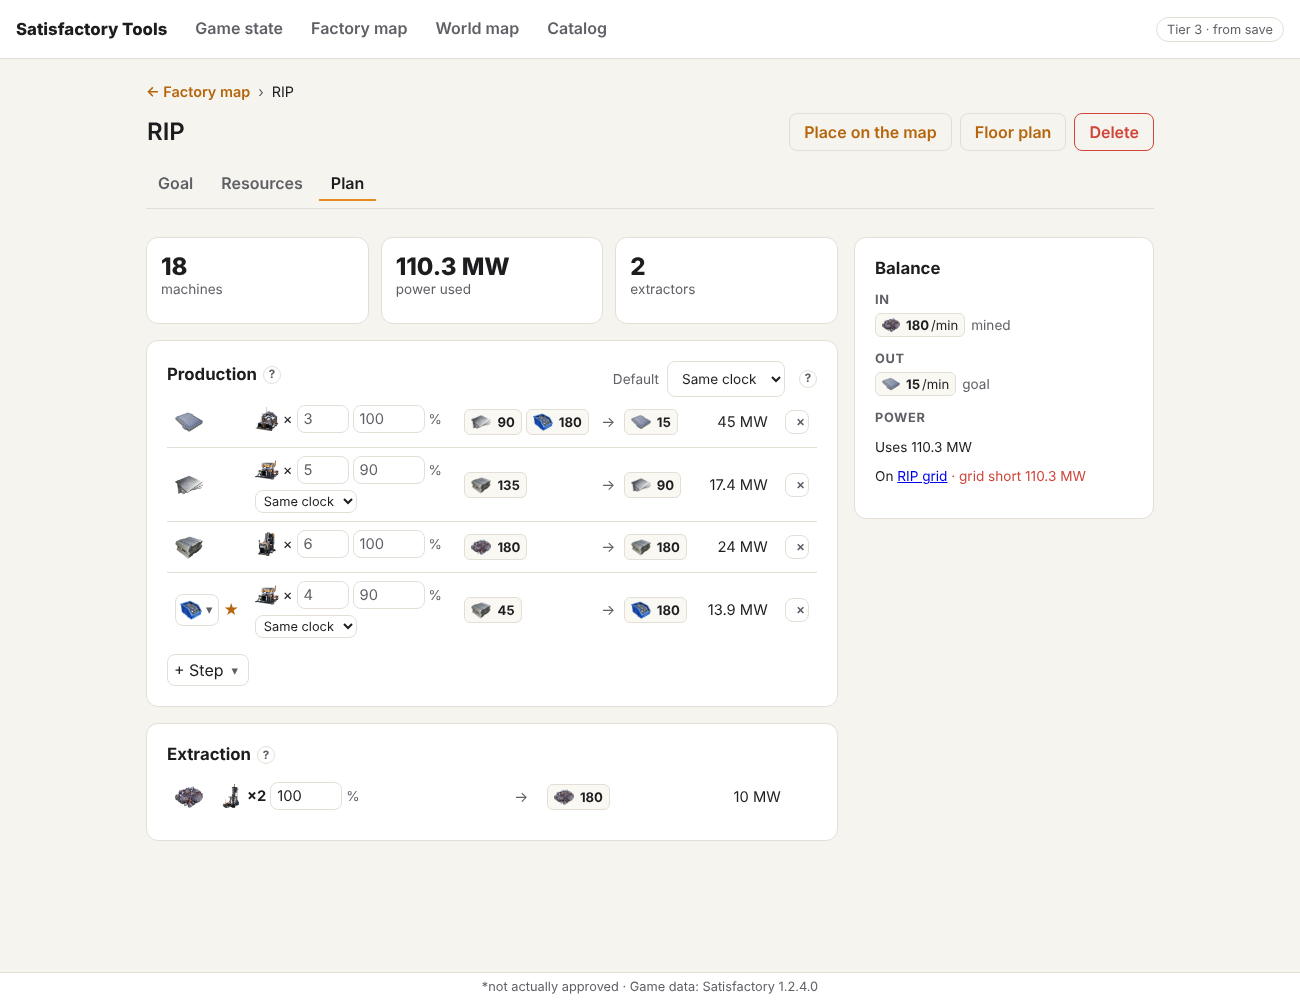
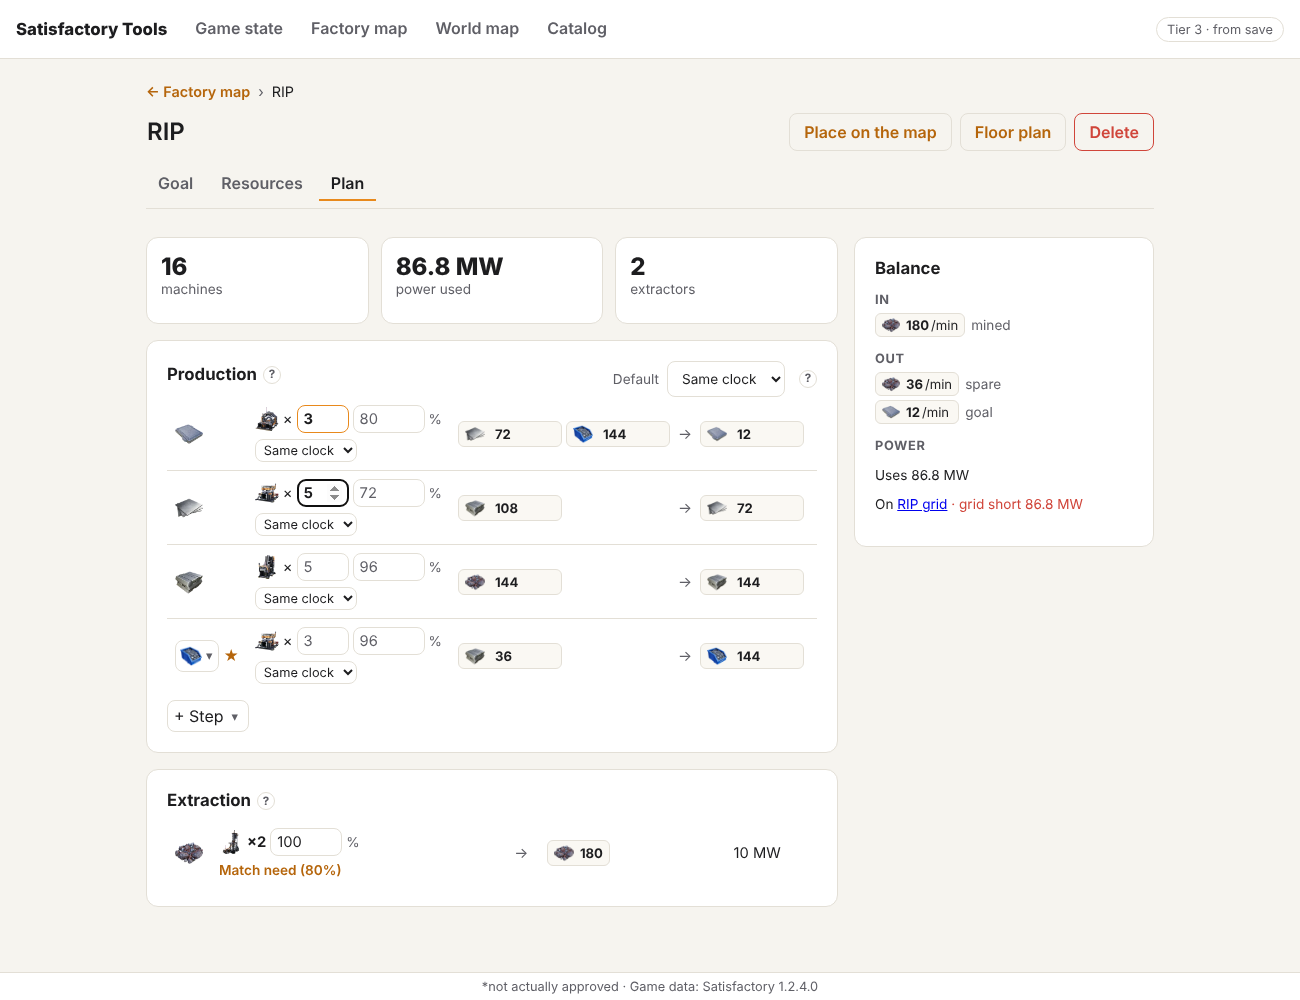
Edit a step's inputs and outputs; a machine count keeps the rate
Each production step's input and output rates are editable: the step keeps
its machines, their clock follows, and the goals it serves scale to match.
Changing the machine count keeps the rate and recomputes the clock, adding
machines only when the clock would pass the plan's highest clock.

Claude-Session: https://claude.ai/code/session_01597yZm3yK1fH7oyjqfmAXD

diff --git a/src/screens/Outposts.tsx b/src/screens/Outposts.tsx
@@ -3,12 +3,12 @@ import { buildingsById, itemName, recipes, recipesById, resourcesById } from '..
 import { fmt } from '../format'
 import { gridOf, type PowerGrid } from '../plan/grids'
 import { exportsOf, offers, type Solved } from '../plan/network'
-import { addStep, editStep, removeStep } from '../plan/edit'
+import { addStep, editStep, editStepRate, removeStep } from '../plan/edit'
 import { buildingFor, extractorPerMin, extractorsFor, generatorsFor, MAX_CLOCK, perMin, recipesFor, somersloopBoost, unlockedFeatures, unusedImports } from '../plan/solve'
 import type { PlannerSettings } from '../plan/settings'
 import { newId, type PlanPatch } from '../plan/store'
 import { suggestGoalItem, suggestGoalRate } from '../plan/suggest'
-import type { ClockMode, ExtractionStep, Goal, ItemGoal, OutpostPlan, Purity, StepSetting, Transport } from '../plan/types'
+import type { ClockMode, ExtractionStep, Goal, ItemGoal, OutpostPlan, ProductionStep, Purity, StepSetting, Transport } from '../plan/types'
 import { fitTransport, transportsFor, transportUnlocked } from '../plan/unlocked'
 import { useNetwork } from '../plan/useNetwork'
 import { editorPath } from '../editor/route'
@@ -18,7 +18,6 @@ import { Amount, GameIcon, PowerIcon } from '../ui/GameIcon'
 import { Help, WithTip } from '../ui/Help'
 import { IconSelect } from '../ui/IconSelect'
 import { NumberInput } from '../ui/NumberInput'
-import { Rates } from './Rates'
 
 const pct = (clock: number) => `${Math.round(clock * 1000) / 10}%`
 const CLOCKS = [1, 1.5, 2, 2.5]
@@ -605,9 +604,9 @@ function PlanStep({ solved, update, available, settings, setSettings }: StepProp
                           min={1}
                           step={1}
                           value={s.count}
-                          onChange={(n) => setStep(s.recipe, { ...set, count: Math.max(1, Math.round(n)) })}
+                          onChange={(n) => setStep(s.recipe, { mode: set?.mode, count: Math.max(1, Math.round(n)) })}
                           aria-label={`Machines for ${itemName(s.item)}`}
-                          title={set?.count ? 'Set by you' : 'Suggested: type a number to set it'}
+                          title={set?.count ? 'Set by you: the clock follows the rate' : 'Suggested: type a number to set it; the rate stays and the clock follows'}
                         />
                         <NumberInput
                           lazy
@@ -671,11 +670,11 @@ function PlanStep({ solved, update, available, settings, setSettings }: StepProp
                       )}
                     </td>
                     <td>
-                      <Rates list={recipe.ingredients} recipe={recipe} scale={s.machines} />
+                      <StepRates step={s} side="in" onRate={(item, rate) => update(editStepRate(solved, ctx, s, 'in', item, rate))} />
                     </td>
                     <td className="arrow">→</td>
                     <td>
-                      <Rates list={recipe.products} recipe={recipe} scale={s.machines * s.boost} />
+                      <StepRates step={s} side="out" onRate={(item, rate) => update(editStepRate(solved, ctx, s, 'out', item, rate))} />
                     </td>
                     <td className="num">{fmt(s.powerMW, 1)} MW</td>
                     <td className="num actions">
@@ -742,6 +741,32 @@ function PlanStep({ solved, update, available, settings, setSettings }: StepProp
 
       {solution.extraction.length > 0 && <Extraction solved={solved} update={update} available={available} />}
     </>
+  )
+}
+
+/** A step's inputs or outputs per minute, each editable: the machines stay and their clock follows. */
+function StepRates({ step, side, onRate }: { step: ProductionStep; side: 'in' | 'out'; onRate: (item: string, perMin: number) => void }) {
+  const recipe = recipesById.get(step.recipe)!
+  const list = side === 'in' ? recipe.ingredients : recipe.products
+  const scale = side === 'in' ? step.machines : step.machines * step.boost
+  return (
+    <span className="rates">
+      {list.map((x) => (
+        <span key={x.item} className="rate step-rate">
+          <GameIcon id={x.item} size={20} />
+          <NumberInput
+            lazy
+            min={0}
+            step="any"
+            value={perMin(x.amount, recipe) * scale}
+            format={(n) => fmt(n)}
+            onChange={(n) => onRate(x.item, n)}
+            aria-label={`${itemName(x.item)} per minute ${side === 'in' ? 'into' : 'out of'} the ${itemName(step.item)} step`}
+            title="Per minute. Change it and the machines stay, their clock follows, and the goals scale to match."
+          />
+        </span>
+      ))}
+    </span>
   )
 }
 

diff --git a/src/plan/solve.ts b/src/plan/solve.ts
@@ -112,8 +112,9 @@ export const buildingFor = (r: Recipe, available: Availability) => r.producedIn.
  * nodes. Anything left over (byproducts, unused node output) is exported.
  * Machines are sized to the plan's highest clock speed, all at one clock that hits the
  * rate ('uniform') or at full clock with the last one idling ('full'), unless the user
- * set a step's count or clock: then that step makes no more than those machines can,
- * and the rest of the demand is short. Power follows the game's clock exponent and
+ * set a step's count (the clock follows the rate, and machines are only added past the
+ * highest clock) or its clock (the step makes no more than those machines can, and the
+ * rest of the demand is short). Power follows the game's clock exponent and
  * Somersloop boost.
  */
 export function solve(plan: OutpostPlan, available: Availability, suggested: Choice = {}, options: SolveOptions = {}): OutpostSolution {
@@ -135,12 +136,11 @@ export function solve(plan: OutpostPlan, available: Availability, suggested: Cho
   // Highest clock a user may set on a machine: 250% once overclocking is researched, if it overclocks at all.
   const clockCap = (b: Building | undefined) => (features.has('overclocking') && b?.overclock?.canOverclock !== false ? MAX_CLOCK : 1)
   const clampClock = (c: number, b: Building | undefined) => Math.min(clockCap(b), Math.max(0.01, c))
-  /** Most work, in machines at 100%, a step the user sized can do. */
+  /** Most work, in machines at 100%, a step with a clock the user set can do. */
   const capacity = (r: Recipe) => {
     const set = plan.steps?.[r.id]
-    if (!set?.count) return Infinity
-    const b = buildingsById.get(buildingFor(r, available))
-    return Math.max(1, Math.round(set.count)) * (set.clock ? clampClock(set.clock, b) : clockCap(b))
+    if (!set?.count || !set.clock) return Infinity
+    return Math.max(1, Math.round(set.count)) * clampClock(set.clock, buildingsById.get(buildingFor(r, available)))
   }
 
   const powerGoal = plan.goals.find((g) => g.kind === 'power')
@@ -259,11 +259,16 @@ export function solve(plan: OutpostPlan, available: Availability, suggested: Cho
       const b = buildingsById.get(building)
       const set = plan.steps?.[id]
       const mode = set?.mode ?? defaultMode
-      let { count, clock } = sizeMachines(run.machines, b?.overclock?.canOverclock === false ? 1 : maxClock, mode)
-      if (set?.count) {
-        // The user's count, at their clock or one derived from the rate.
+      const limit = Math.min(MAX_CLOCK, b?.overclock?.canOverclock === false ? 1 : maxClock)
+      let { count, clock } = sizeMachines(run.machines, limit, mode)
+      if (set?.count && set.clock) {
         count = Math.max(1, Math.round(set.count))
-        clock = clampClock(set.clock ?? (mode === 'full' ? Math.max(1, run.machines / count) : run.machines / count), b)
+        clock = clampClock(set.clock, b)
+      } else if (set?.count) {
+        // The user's machines, at the clock that makes the rate; more only when that clock
+        // would go past the plan's highest clock.
+        count = Math.max(1, Math.round(set.count), Math.ceil(run.machines / limit - 1e-9))
+        clock = mode === 'full' ? Math.max(Math.min(1, limit), run.machines / count) : run.machines / count
       }
       return {
         recipe: id,

diff --git a/src/plan/edit.test.ts b/src/plan/edit.test.ts
@@ -1,7 +1,7 @@
 import { describe, expect, it } from 'vitest'
 import { schematics } from '../data'
 import { availability } from '../data/game/availability'
-import { addStep, editStep, removeStep } from './edit'
+import { addStep, editStep, editStepRate, removeStep } from './edit'
 import { solvePlan } from './network'
 import type { OutpostPlan } from './types'
 
@@ -40,6 +40,27 @@ describe('editing the plan', () => {
     const after = solvePlan({ ...solved.plan, ...patch }, all).solution
     expect(after.steps.find((s) => s.recipe === 'Recipe_IronRod_C')).toMatchObject({ count: 2, clock: 1 })
     expect(after.flows.get('Desc_IronRod_C')!.shortfall).toBeCloseTo(0)
+  })
+
+  it('changes the rate of a step and keeps its machines, with the clock following', () => {
+    // 10 constructors making 100 screws/min; ask for 80 instead.
+    const solved = solvePlan(plan({ goals: [{ kind: 'item', item: 'Desc_IronScrew_C', perMin: 100 }], steps: { Recipe_Screw_C: { count: 10 } } }), all)
+    const screws = solved.solution.steps.find((s) => s.recipe === 'Recipe_Screw_C')!
+    const patch = editStepRate(solved, ctx, screws, 'out', 'Desc_IronScrew_C', 80)
+    expect(goalRate(patch, 'Desc_IronScrew_C')).toBeCloseTo(80)
+    const after = solvePlan({ ...solved.plan, ...patch }, all).solution.steps.find((s) => s.recipe === 'Recipe_Screw_C')!
+    expect(after).toMatchObject({ count: 10, clock: 0.2 })
+    // Setting the input works the same way: 30 rods/min in is 120 screws/min out.
+    const viaInput = editStepRate(solved, ctx, screws, 'in', 'Desc_IronRod_C', 30)
+    expect(goalRate(viaInput, 'Desc_IronScrew_C')).toBeCloseTo(120)
+  })
+
+  it('pins the current machine count when a suggested step gets a new rate, and drops a set clock', () => {
+    const solved = solvePlan(plan({ goals: [{ kind: 'item', item: 'Desc_IronPlate_C', perMin: 20 }], steps: { Recipe_IronPlate_C: { count: 2, clock: 0.5 } } }), all)
+    const plates = solved.solution.steps.find((s) => s.recipe === 'Recipe_IronPlate_C')!
+    const patch = editStepRate(solved, ctx, plates, 'out', 'Desc_IronPlate_C', 30)
+    expect(patch.steps).toEqual({ Recipe_IronPlate_C: { count: 2 } })
+    expect(goalRate(patch, 'Desc_IronPlate_C')).toBeCloseTo(30)
   })
 
   it("doesn't touch goals for a count alone, and resets to the suggestion", () => {

diff --git a/src/plan/edit.ts b/src/plan/edit.ts
@@ -6,7 +6,7 @@ import type { Availability } from '../data/game/availability'
 import type { Solved } from './network'
 import { perMin, solve, type SolveOptions } from './solve'
 import type { PlanPatch } from './store'
-import type { Goal, OutpostPlan, StepSetting } from './types'
+import type { Goal, OutpostPlan, ProductionStep, StepSetting } from './types'
 
 type Ctx = { available: Availability; options?: SolveOptions }
 
@@ -51,6 +51,20 @@ export function editStep(solved: Solved, ctx: Ctx, recipe: RecipeId, setting: St
   const step = solve(next, ctx.available, solved.suggested, ctx.options).steps.find((s) => s.recipe === recipe)
   if (!step) return { steps }
   return { steps, goals: fitGoals(next, solved, ctx, recipe, step.count * step.clock) }
+}
+
+/**
+ * Set how much of `item` a step makes (`side` 'out') or takes in ('in'), per minute. The
+ * step keeps its machines and their clock follows; the goals it serves scale to match.
+ */
+export function editStepRate(solved: Solved, ctx: Ctx, step: ProductionStep, side: 'in' | 'out', item: ItemId, rate: number): PlanPatch {
+  const r = recipesById.get(step.recipe)
+  const x = (side === 'out' ? r?.products : r?.ingredients)?.find((i) => i.item === item)
+  if (!r || !x) return {}
+  const target = Math.max(0, rate) / (perMin(x.amount, r) * (side === 'out' ? step.boost : 1))
+  const { plan } = solved
+  const steps = { ...plan.steps, [step.recipe]: { ...(plan.steps?.[step.recipe]?.mode && { mode: plan.steps[step.recipe].mode }), count: step.count } }
+  return { steps, goals: fitGoals({ ...plan, steps }, solved, ctx, step.recipe, target) }
 }
 
 /**

diff --git a/src/plan/solve.test.ts b/src/plan/solve.test.ts
@@ -115,10 +115,19 @@ describe('solve', () => {
     expect(s.flows.get('Desc_IronScrew_C')!.shortfall).toBeCloseTo(60)
     // Only what's made pulls rods.
     expect(s.flows.get('Desc_IronRod_C')!.consumed).toBeCloseTo(10)
-    // A count without a clock can't go past 100% before overclocking is researched.
-    const capped = solve(plan({ goals: [{ kind: 'item', item: 'Desc_IronScrew_C', perMin: 100 }], steps: { Recipe_Screw_C: { count: 2 } } }), noResearch)
-    expect(step(capped, 'Recipe_Screw_C').clock).toBe(1)
-    expect(capped.flows.get('Desc_IronScrew_C')!.shortfall).toBeCloseTo(20)
+  })
+
+  it('keeps a set machine count and only adds machines past the highest clock', () => {
+    // 10 constructors for 100 screws/min run at 25%; 12 at 20.8%, still 100/min.
+    const at = (count: number, patch: Partial<OutpostPlan> = {}) =>
+      step(solve(plan({ goals: [{ kind: 'item', item: 'Desc_IronScrew_C', perMin: 100 }], steps: { Recipe_Screw_C: { count } }, ...patch }), all), 'Recipe_Screw_C')
+    expect(at(10)).toMatchObject({ count: 10, clock: 0.25 })
+    expect(at(12).clock).toBeCloseTo(100 / 40 / 12)
+    // Two would need 125%: a third machine comes in at 83.3% rather than overclocking.
+    expect(at(2).count).toBe(3)
+    expect(at(2).clock).toBeCloseTo(2.5 / 3)
+    // Unless the plan allows overclocking that far.
+    expect(at(2, { maxClock: 1.5 })).toMatchObject({ count: 2, clock: 1.25 })
   })
 
   it('leaves skipped items to imports', () => {

diff --git a/src/plan/types.ts b/src/plan/types.ts
@@ -60,7 +60,10 @@ export type ClockMode = 'uniform' | 'full'
 
 /** What the user set on one production step (keyed by recipe). Unset fields are derived. */
 export interface StepSetting {
-  /** Whole machines to build. Without a clock, they share one clock that hits the rate. */
+  /**
+   * Whole machines to build. Without a clock, they share one clock that hits the rate, and
+   * more are added only when that clock would pass the plan's highest clock.
+   */
   count?: number
   /** Clock speed every machine runs at, 1 = 100%. Always set together with `count`. */
   clock?: number

diff --git a/src/index.css b/src/index.css
@@ -405,3 +405,5 @@ label.mam-node.open:hover, label.mam-node.done:hover { border-color: var(--accen
 .step-options select { padding: 2px 4px; font-size: .8rem; }
 .plan-table td.actions { text-align: right; }
 .add-step { margin-top: 8px; }
+.step-rate input[type=number] { width: 64px; padding: 2px 4px; border: 0; background: transparent; font-weight: 700; }
+.step-rate input[type=number]:hover, .step-rate input[type=number]:focus { background: var(--surface); outline: 1px solid var(--border); }
